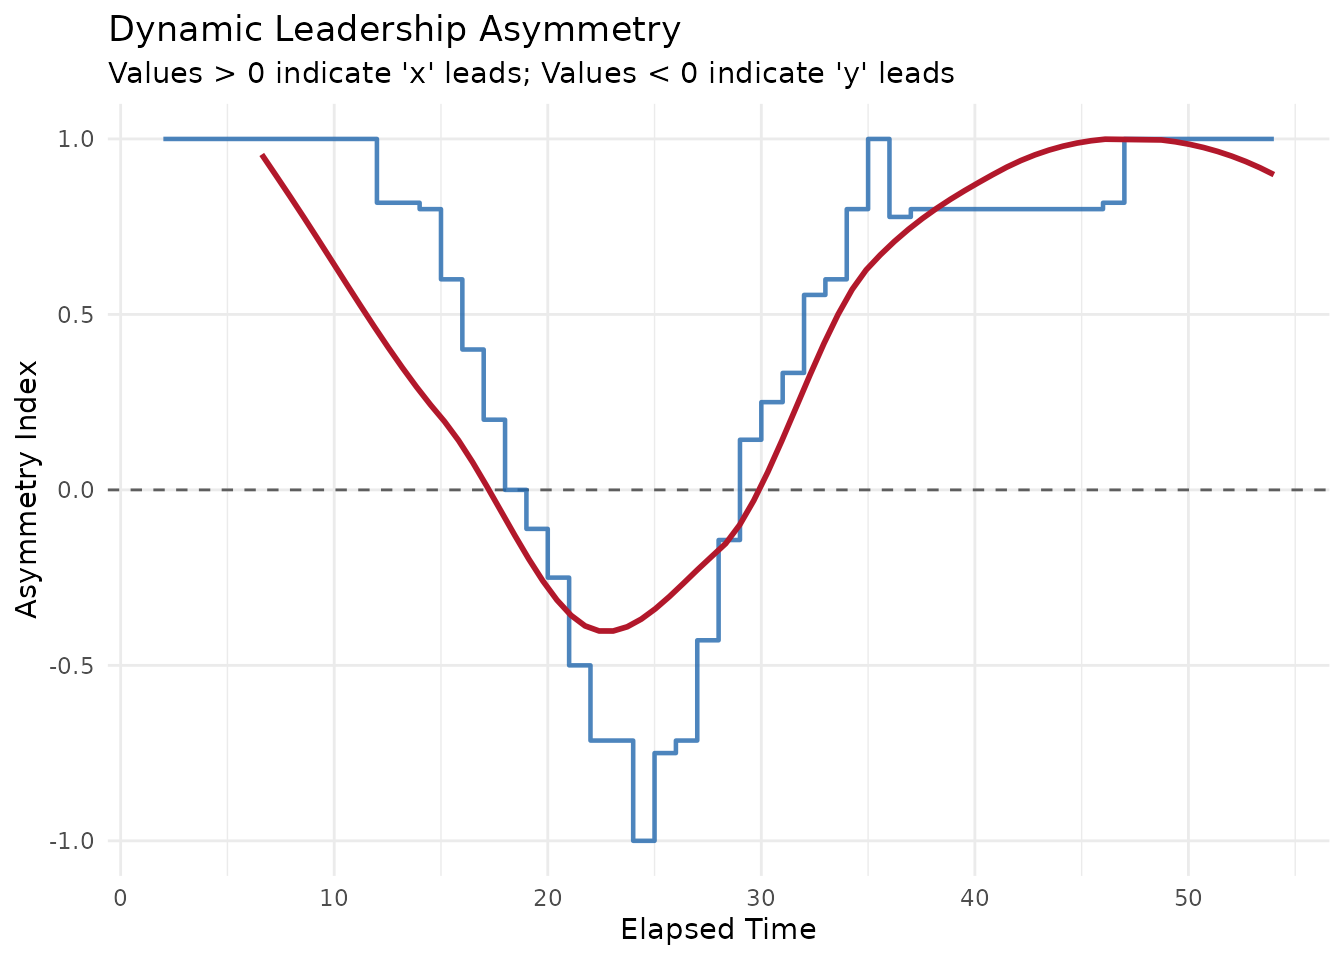
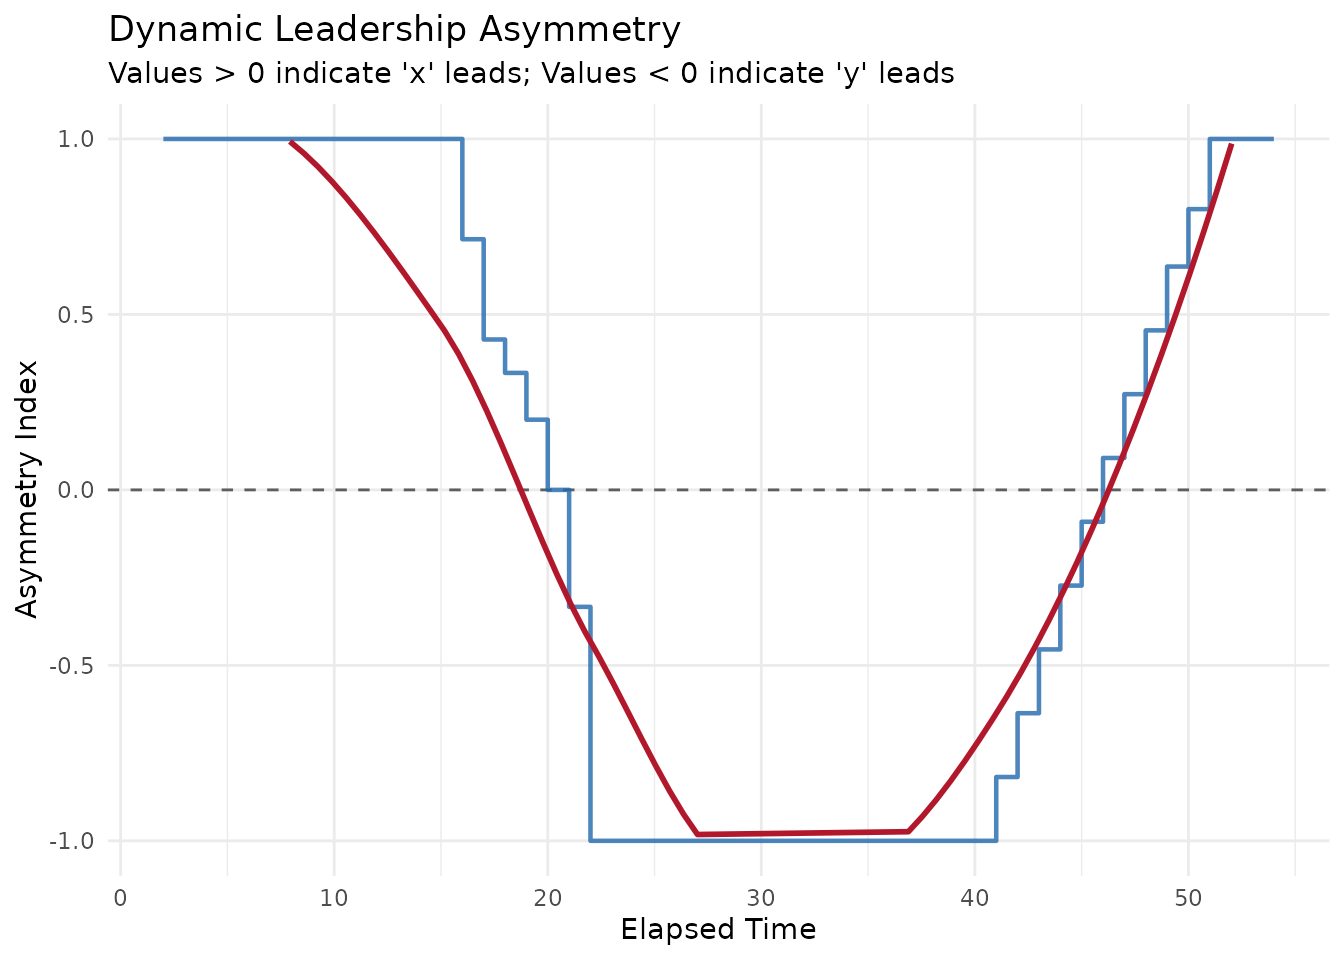
Deploying to gh-pages from @ jmgirard/bsync@0faa2db5527edf8fd0598e038e5dc24733de73dc 🚀

diff --git a/articles/wcc-workflow.html b/articles/wcc-workflow.html
@@ -146,7 +146,7 @@ by 8 frames (0.26 seconds).</li>
 <span></span>
 <span>  <span class="op">}</span> <span class="kw">else</span> <span class="kw">if</span> <span class="op">(</span><span class="va">i</span> <span class="op">&lt;=</span> <span class="fl">1400</span><span class="op">)</span> <span class="op">{</span></span>
 <span>    <span class="co"># Phase 3 (30-46s): Person B leads by 12 frames (0.40 seconds)</span></span>
-<span>    <span class="va">person_A_raw</span><span class="op">[</span><span class="va">i</span><span class="op">]</span> <span class="op">&lt;-</span> <span class="va">shared_base</span><span class="op">[</span><span class="fl">150</span> <span class="op">+</span> <span class="va">i</span> <span class="op">+</span> <span class="fl">12</span><span class="op">]</span></span>
+<span>    <span class="va">person_A_raw</span><span class="op">[</span><span class="va">i</span><span class="op">]</span> <span class="op">&lt;-</span> <span class="va">shared_base</span><span class="op">[</span><span class="fl">150</span> <span class="op">+</span> <span class="va">i</span> <span class="op">-</span> <span class="fl">12</span><span class="op">]</span></span>
 <span>    <span class="va">person_B_raw</span><span class="op">[</span><span class="va">i</span><span class="op">]</span> <span class="op">&lt;-</span> <span class="va">shared_base</span><span class="op">[</span><span class="fl">150</span> <span class="op">+</span> <span class="va">i</span><span class="op">]</span></span>
 <span></span>
 <span>  <span class="op">}</span> <span class="kw">else</span> <span class="op">{</span></span>
@@ -213,12 +213,12 @@ frames (1 second) to allow for overlap and smooth transitions.</p>
 <span><span class="co">#&gt; Total Lags Tested: 91</span></span>
 <span><span class="co">#&gt; Window Size: 90</span></span>
 <span><span class="co">#&gt; Max Lag: 45</span></span>
-<span><span class="co">#&gt; Overall Fisher's Z: 0.4534</span></span>
+<span><span class="co">#&gt; Overall Fisher's Z: 0.4506</span></span>
 <span><span class="co">#&gt; </span></span>
 <span><span class="co">#&gt; ── <span style="font-weight: bold;">Cross-Correlation Value Distribution</span> ──</span></span>
 <span><span class="co">#&gt; </span></span>
 <span><span class="co">#&gt;      0%     25%     50%     75%    100% </span></span>
-<span><span class="co">#&gt; -0.8224 -0.2776  0.0129  0.3826  0.9975</span></span></code></pre></div>
+<span><span class="co">#&gt; -0.8432 -0.2721  0.0168  0.3989  0.9983</span></span></code></pre></div>
 <p>The <code><a href="../reference/wcc.html">wcc()</a></code> function returns a list object of class
 <code>wcc_res</code> containing the results data frame, the overall
 Fisher’s Z score, and the input settings.</p>
@@ -257,8 +257,8 @@ distribution using the circular shift method.</p>
 <span><span class="fu"><a href="https://rdrr.io/r/base/print.html" class="external-link">print</a></span><span class="op">(</span><span class="va">surrogate_results</span><span class="op">)</span></span>
 <span><span class="co">#&gt; <span style="color: #00BBBB;">──</span> <span style="font-weight: bold;">WCC Surrogate Analysis (Pseudo-Synchrony)</span> <span style="color: #00BBBB;">───────────────────────────────────</span></span></span>
 <span><span class="co">#&gt; Permutations: 1000</span></span>
-<span><span class="co">#&gt; Observed Fisher's Z: 0.4534</span></span>
-<span><span class="co">#&gt; Average Null Z: 0.3167</span></span>
+<span><span class="co">#&gt; Observed Fisher's Z: 0.4506</span></span>
+<span><span class="co">#&gt; Average Null Z: 0.3158</span></span>
 <span><span class="co">#&gt; Empirical p-value: &lt; 0.001</span></span>
 <span><span class="co">#&gt; <span style="color: #00BB00;">✔</span> Observed synchrony is significantly greater than chance.</span></span></code></pre></div>
 <p>The output gives us an empirical p-value by calculating the
@@ -278,12 +278,12 @@ participants move independently, the algorithm will naturally find weak,
 meaningless “noise peaks” during that period. To prevent the tracking
 line from wildly jumping around during this lull, we can pass a
 <code>threshold</code> argument.</p>
-<p>Setting <code>threshold = 0.25</code> ensures that any optimum with
-an absolute correlation weaker than r = 0.25 is overwritten with
+<p>Setting <code>threshold = 0.55</code> ensures that any optimum with
+an absolute correlation weaker than r = 0.55 is overwritten with
 <code>NA</code>.</p>
 <div class="sourceCode" id="cb6"><pre class="downlit sourceCode r">
-<code class="sourceCode R"><span><span class="co"># Extract optima using a local search size of 9 and a threshold of 0.25</span></span>
-<span><span class="va">wcc_optima_df</span> <span class="op">&lt;-</span> <span class="fu"><a href="../reference/pick_optima.html">pick_optima</a></span><span class="op">(</span><span class="va">wcc_results</span>, L_size <span class="op">=</span> <span class="fl">9</span>, threshold <span class="op">=</span> <span class="fl">0.25</span><span class="op">)</span></span>
+<code class="sourceCode R"><span><span class="co"># Extract optima using a local search size of 9 and a threshold of 0.55</span></span>
+<span><span class="va">wcc_optima_df</span> <span class="op">&lt;-</span> <span class="fu"><a href="../reference/pick_optima.html">pick_optima</a></span><span class="op">(</span><span class="va">wcc_results</span>, L_size <span class="op">=</span> <span class="fl">9</span>, threshold <span class="op">=</span> <span class="fl">0.55</span><span class="op">)</span></span>
 <span></span>
 <span><span class="co"># View a statistical breakdown of the extracted optima</span></span>
 <span><span class="fu"><a href="https://rdrr.io/r/base/summary.html" class="external-link">summary</a></span><span class="op">(</span><span class="va">wcc_optima_df</span><span class="op">)</span></span>
@@ -293,19 +293,19 @@ an absolute correlation weaker than r = 0.25 is overwritten with
 <span><span class="co">#&gt; ── <span style="font-weight: bold;">Completeness</span> ──</span></span>
 <span><span class="co">#&gt; </span></span>
 <span><span class="co">#&gt; <span style="color: #00BBBB;">•</span> Total time windows: 53</span></span>
-<span><span class="co">#&gt; <span style="color: #00BBBB;">•</span> Valid optima retained: 48 (90.6%)</span></span>
-<span><span class="co">#&gt; <span style="color: #00BBBB;">•</span> Optima dropped (NA): 5 (9.4%)</span></span>
+<span><span class="co">#&gt; <span style="color: #00BBBB;">•</span> Valid optima retained: 44 (83%)</span></span>
+<span><span class="co">#&gt; <span style="color: #00BBBB;">•</span> Optima dropped (NA): 9 (17%)</span></span>
 <span><span class="co">#&gt; </span></span>
 <span><span class="co">#&gt; ── <span style="font-weight: bold;">Lag Directionality (Leadership)</span> ──</span></span>
 <span><span class="co">#&gt; </span></span>
-<span><span class="co">#&gt; <span style="color: #00BBBB;">•</span> Positive Lags (x leads y): 38 (79.2%)</span></span>
-<span><span class="co">#&gt; <span style="color: #00BBBB;">•</span> Negative Lags (y leads x): 9 (18.8%)</span></span>
-<span><span class="co">#&gt; <span style="color: #00BBBB;">•</span> Zero Lags (Simultaneous): 1 (2.1%)</span></span>
+<span><span class="co">#&gt; <span style="color: #00BBBB;">•</span> Positive Lags (x leads y): 24 (54.5%)</span></span>
+<span><span class="co">#&gt; <span style="color: #00BBBB;">•</span> Negative Lags (y leads x): 19 (43.2%)</span></span>
+<span><span class="co">#&gt; <span style="color: #00BBBB;">•</span> Zero Lags (Simultaneous): 1 (2.3%)</span></span>
 <span><span class="co">#&gt; </span></span>
 <span><span class="co">#&gt; ── <span style="font-weight: bold;">Optimum Value Distribution</span> ──</span></span>
 <span><span class="co">#&gt; </span></span>
-<span><span class="co">#&gt;      0%     25%     50%     75%    100% </span></span>
-<span><span class="co">#&gt; -0.3739  0.9433  0.9926  0.9959  0.9975</span></span></code></pre></div>
+<span><span class="co">#&gt;     0%    25%    50%    75%   100% </span></span>
+<span><span class="co">#&gt; 0.5708 0.9877 0.9936 0.9961 0.9983</span></span></code></pre></div>
 <div class="section level4">
 <h4 id="interpreting-the-optima-summary">4.1 Interpreting the Optima Summary<a class="anchor" aria-label="anchor" href="#interpreting-the-optima-summary"></a>
 </h4>
@@ -314,25 +314,26 @@ behavioral dynamics. We can map these results directly to the four
 phases we programmed into our simulation:</p>
 <ul>
 <li>
-<strong>Completeness:</strong> The summary will show that roughly
-16% of the optima were dropped (set to <code>NA</code>). This perfectly
-aligns with Phase 2 of our simulation, which was a 10-second
-uncorrelated lull out of the 60-second total. The threshold successfully
-identified and removed this non-interactive period.</li>
+<strong>Completeness:</strong> The summary shows that 17% (9
+windows) of the optima were dropped and set to <code>NA</code>. This
+aligns perfectly with Phase 2 of our simulation, which was a 10-second
+uncorrelated lull. Raising our threshold successfully identified and
+removed this non-interactive period.</li>
 <li>
 <strong>Lag Directionality (Leadership):</strong> Because we
 supplied <code>person_A</code> as <code>x</code> and
 <code>person_B</code> as <code>y</code>, a positive lag means Person A
-is leading and a negative lag means Person B is leading. The summary
-will show positive lags for roughly 68% of the valid interaction
-(corresponding to the 34 total seconds Person A led in Phases 1 and 4).
-It will show negative lags for the remaining 32% (corresponding to the
-16 seconds Person B led in Phase 3).</li>
+is leading, and a negative lag means Person B is leading. The summary
+shows positive lags for 54.5% of the valid interaction, reflecting the
+times Person A led in Phases 1 and 4. It shows negative lags for 43.2%
+of the interaction, correctly identifying the middle section where
+Person B took over.</li>
 <li>
 <strong>Optimum Value Distribution:</strong> The quantiles provide a
 quick look at the strength of the coordination during the valid
-interactive phases, confirming that the retained peaks represent strong,
-structural synchrony.</li>
+interactive phases. With the 25th percentile sitting at <span class="math inline">\(r = 0.98\)</span>, we have absolute confirmation
+that the retained peaks represent strong, structural synchrony rather
+than random noise.</li>
 </ul>
 </div>
 <div class="section level4">
@@ -372,31 +373,33 @@ tracking path directly onto the WCC heatmap.</p>
 <span>  optima_df <span class="op">=</span> <span class="va">wcc_optima_df</span>,</span>
 <span>  time_step <span class="op">=</span> <span class="fl">1</span> <span class="op">/</span> <span class="va">fs</span>,</span>
 <span>  show_zero_lag <span class="op">=</span> <span class="cn">TRUE</span></span>
-<span><span class="op">)</span></span>
-<span><span class="co">#&gt; Warning: Removed 5 rows containing missing values or values outside the scale range</span></span>
-<span><span class="co">#&gt; (`geom_point()`).</span></span></code></pre></div>
+<span><span class="op">)</span></span></code></pre></div>
 <p><img src="wcc-workflow_files/figure-html/visualization-1.png" class="r-plt" alt="" width="672"></p>
 <p>In the resulting plot, the tracking line perfectly visualizes the
 distinct phases of our simulated interaction:</p>
 <ul>
 <li>
-<strong>0 to 20 seconds:</strong> A stable vertical line sits at a
-positive lag (~0.33s), correctly identifying Person A as the initial
-leader.</li>
+<strong>0 to roughly 18 seconds:</strong> A stable vertical line
+sits at a positive lag (~0.33s), correctly identifying Person A as the
+initial leader.</li>
 <li>
-<strong>20 to 30 seconds:</strong> There is a clean break in the
+<strong>18 to 30 seconds:</strong> There is a clean break in the
 tracking line. Because we applied a threshold, the algorithm
 successfully ignored the weak, random noise peaks during the
 uncorrelated lull, leaving this non-interactive period appropriately
 blank.</li>
 <li>
-<strong>30 to 60 seconds:</strong> The tracking line reappears and
-cleanly shifts to new lags, accurately capturing the transitions in
-leadership dynamics during the final two phases.</li>
+<strong>30 to 45 seconds:</strong> The tracking line reappears on
+the left side of the zero-line at a negative lag (~ -0.40s), perfectly
+capturing Phase 3 where Person B takes the lead.</li>
+<li>
+<strong>46 seconds onward:</strong> The tracking line jumps back to
+the right side of the zero-line as Person A reclaims the lead for the
+final phase of the interaction.</li>
 </ul>
 </div>
 <div class="section level3">
-<h3 id="quantifying-leadership-dynamics-the-pipeline-approach">6. Quantifying Leadership Dynamics (The Pipeline Approach)<a class="anchor" aria-label="anchor" href="#quantifying-leadership-dynamics-the-pipeline-approach"></a>
+<h3 id="quantifying-leadership-dynamics">6. Quantifying Leadership Dynamics<a class="anchor" aria-label="anchor" href="#quantifying-leadership-dynamics"></a>
 </h3>
 <p>Visualizing the optima is helpful, but researchers ultimately need a
 continuous, quantifiable metric of who is driving the interaction. The
@@ -407,20 +410,22 @@ optima into a bounded Leadership Asymmetry Index (LAI) ranging from -1
 structure, you can seamlessly chain the entire analytical process
 together using the native R pipe (<code>|&gt;</code>):</p>
 <div class="sourceCode" id="cb8"><pre class="downlit sourceCode r">
-<code class="sourceCode R"><span><span class="co"># Run the complete pipeline from results to LAI visualization</span></span>
+<code class="sourceCode R"><span><span class="co"># Run the complete pipeline from WCC results to LAI visualization</span></span>
 <span><span class="va">wcc_results</span> <span class="op">|&gt;</span></span>
-<span>  <span class="fu"><a href="../reference/pick_optima.html">pick_optima</a></span><span class="op">(</span>L_size <span class="op">=</span> <span class="fl">9</span>, threshold <span class="op">=</span> <span class="fl">0.25</span><span class="op">)</span> <span class="op">|&gt;</span></span>
+<span>  <span class="fu"><a href="../reference/pick_optima.html">pick_optima</a></span><span class="op">(</span>L_size <span class="op">=</span> <span class="fl">9</span>, threshold <span class="op">=</span> <span class="fl">0.55</span><span class="op">)</span> <span class="op">|&gt;</span></span>
 <span>  <span class="fu"><a href="../reference/leadership_asymmetry.html">leadership_asymmetry</a></span><span class="op">(</span>epoch_size <span class="op">=</span> <span class="fl">10</span>, min_valid <span class="op">=</span> <span class="fl">3</span><span class="op">)</span> <span class="op">|&gt;</span></span>
 <span>  <span class="fu"><a href="https://rdrr.io/r/graphics/plot.default.html" class="external-link">plot</a></span><span class="op">(</span>smooth <span class="op">=</span> <span class="cn">TRUE</span><span class="op">)</span></span>
-<span><span class="co">#&gt; `geom_smooth()` using formula = 'y ~ x'</span></span>
-<span><span class="co">#&gt; Warning: Removed 10 rows containing missing values or values outside the scale range</span></span>
-<span><span class="co">#&gt; (`geom_smooth()`).</span></span></code></pre></div>
+<span><span class="co">#&gt; `geom_smooth()` using formula = 'y ~ x'</span></span></code></pre></div>
 <p><img src="wcc-workflow_files/figure-html/pipeline-lai-1.png" class="r-plt" alt="" width="672"></p>
 <p>By grouping the windows into local epochs (in this case, groups of 10
 windows), the LAI function smooths over momentary frame-by-frame jitter
-to reveal the broader structural periods of dominance. The resulting
-plot makes it immediately obvious when the conversation shifted from
-Person A driving the interaction to Person B taking over.</p>
+to reveal the broader structural periods of dominance.</p>
+<p>The resulting plot tells the entire story of the interaction at a
+glance. The metric starts firmly at <code>1.0</code> (Person A leading),
+smoothly transitions down through zero during the uncorrelated lull,
+hits <code>-1.0</code> (Person B leading) right at the 30-second mark,
+and finally climbs back up to <code>1.0</code> as Person A re-enters the
+conversation.</p>
 </div>
 </div>
   </main><aside class="col-md-3"><nav id="toc" aria-label="Table of contents"><h2>On this page</h2>

diff --git a/articles/wdtw-workflow.html b/articles/wdtw-workflow.html
@@ -259,9 +259,7 @@ together using the native R pipe (<code>|&gt;</code>):</p>
 <span>  <span class="fu"><a href="../reference/pick_optima.html">pick_optima</a></span><span class="op">(</span><span class="op">)</span> <span class="op">|&gt;</span></span>
 <span>  <span class="fu"><a href="../reference/leadership_asymmetry.html">leadership_asymmetry</a></span><span class="op">(</span>epoch_size <span class="op">=</span> <span class="fl">10</span>, min_valid <span class="op">=</span> <span class="fl">3</span><span class="op">)</span> <span class="op">|&gt;</span></span>
 <span>  <span class="fu"><a href="https://rdrr.io/r/graphics/plot.default.html" class="external-link">plot</a></span><span class="op">(</span>smooth <span class="op">=</span> <span class="cn">TRUE</span><span class="op">)</span></span>
-<span><span class="co">#&gt; `geom_smooth()` using formula = 'y ~ x'</span></span>
-<span><span class="co">#&gt; Warning: Removed 38 rows containing missing values or values outside the scale range</span></span>
-<span><span class="co">#&gt; (`geom_smooth()`).</span></span></code></pre></div>
+<span><span class="co">#&gt; `geom_smooth()` using formula = 'y ~ x'</span></span></code></pre></div>
 <p><img src="wdtw-workflow_files/figure-html/pipeline-lai-1.png" class="r-plt" alt="" width="672"></p>
 <p>By grouping the windows into local epochs, the LAI function smooths
 over momentary frame-by-frame jitter to reveal the broader structural

diff --git a/articles/wcc-workflow.md b/articles/wcc-workflow.md
@@ -72,7 +72,7 @@ for (i in 1:n_frames) {
 
   } else if (i <= 1400) {
     # Phase 3 (30-46s): Person B leads by 12 frames (0.40 seconds)
-    person_A_raw[i] <- shared_base[150 + i + 12]
+    person_A_raw[i] <- shared_base[150 + i - 12]
     person_B_raw[i] <- shared_base[150 + i]
 
   } else {
@@ -147,12 +147,12 @@ summary(wcc_results)
 #> Total Lags Tested: 91
 #> Window Size: 90
 #> Max Lag: 45
-#> Overall Fisher's Z: 0.4534
+#> Overall Fisher's Z: 0.4506
 #> 
 #> ── Cross-Correlation Value Distribution ──
 #> 
 #>      0%     25%     50%     75%    100% 
-#> -0.8224 -0.2776  0.0129  0.3826  0.9975
+#> -0.8432 -0.2721  0.0168  0.3989  0.9983
 ```
 
 The [`wcc()`](https://jmgirard.github.io/bsync/reference/wcc.md)
@@ -200,8 +200,8 @@ surrogate_results <- wcc_surrogate(
 print(surrogate_results)
 #> ── WCC Surrogate Analysis (Pseudo-Synchrony) ───────────────────────────────────
 #> Permutations: 1000
-#> Observed Fisher's Z: 0.4534
-#> Average Null Z: 0.3167
+#> Observed Fisher's Z: 0.4506
+#> Average Null Z: 0.3158
 #> Empirical p-value: < 0.001
 #> ✔ Observed synchrony is significantly greater than chance.
 ```
@@ -225,13 +225,13 @@ move independently, the algorithm will naturally find weak, meaningless
 wildly jumping around during this lull, we can pass a `threshold`
 argument.
 
-Setting `threshold = 0.25` ensures that any optimum with an absolute
-correlation weaker than r = 0.25 is overwritten with `NA`.
+Setting `threshold = 0.55` ensures that any optimum with an absolute
+correlation weaker than r = 0.55 is overwritten with `NA`.
 
 ``` r
 
-# Extract optima using a local search size of 9 and a threshold of 0.25
-wcc_optima_df <- pick_optima(wcc_results, L_size = 9, threshold = 0.25)
+# Extract optima using a local search size of 9 and a threshold of 0.55
+wcc_optima_df <- pick_optima(wcc_results, L_size = 9, threshold = 0.55)
 
 # View a statistical breakdown of the extracted optima
 summary(wcc_optima_df)
@@ -241,19 +241,19 @@ summary(wcc_optima_df)
 #> ── Completeness ──
 #> 
 #> • Total time windows: 53
-#> • Valid optima retained: 48 (90.6%)
-#> • Optima dropped (NA): 5 (9.4%)
+#> • Valid optima retained: 44 (83%)
+#> • Optima dropped (NA): 9 (17%)
 #> 
 #> ── Lag Directionality (Leadership) ──
 #> 
-#> • Positive Lags (x leads y): 38 (79.2%)
-#> • Negative Lags (y leads x): 9 (18.8%)
-#> • Zero Lags (Simultaneous): 1 (2.1%)
+#> • Positive Lags (x leads y): 24 (54.5%)
+#> • Negative Lags (y leads x): 19 (43.2%)
+#> • Zero Lags (Simultaneous): 1 (2.3%)
 #> 
 #> ── Optimum Value Distribution ──
 #> 
-#>      0%     25%     50%     75%    100% 
-#> -0.3739  0.9433  0.9926  0.9959  0.9975
+#>     0%    25%    50%    75%   100% 
+#> 0.5708 0.9877 0.9936 0.9961 0.9983
 ```
 
 #### 4.1 Interpreting the Optima Summary
@@ -262,22 +262,23 @@ The [`summary()`](https://rdrr.io/r/base/summary.html) method provides a
 concise breakdown of the behavioral dynamics. We can map these results
 directly to the four phases we programmed into our simulation:
 
-- **Completeness:** The summary will show that roughly 16% of the optima
-  were dropped (set to `NA`). This perfectly aligns with Phase 2 of our
-  simulation, which was a 10-second uncorrelated lull out of the
-  60-second total. The threshold successfully identified and removed
-  this non-interactive period.
+- **Completeness:** The summary shows that 17% (9 windows) of the optima
+  were dropped and set to `NA`. This aligns perfectly with Phase 2 of
+  our simulation, which was a 10-second uncorrelated lull. Raising our
+  threshold successfully identified and removed this non-interactive
+  period.
 - **Lag Directionality (Leadership):** Because we supplied `person_A` as
-  `x` and `person_B` as `y`, a positive lag means Person A is leading
-  and a negative lag means Person B is leading. The summary will show
-  positive lags for roughly 68% of the valid interaction (corresponding
-  to the 34 total seconds Person A led in Phases 1 and 4). It will show
-  negative lags for the remaining 32% (corresponding to the 16 seconds
-  Person B led in Phase 3).
+  `x` and `person_B` as `y`, a positive lag means Person A is leading,
+  and a negative lag means Person B is leading. The summary shows
+  positive lags for 54.5% of the valid interaction, reflecting the times
+  Person A led in Phases 1 and 4. It shows negative lags for 43.2% of
+  the interaction, correctly identifying the middle section where Person
+  B took over.
 - **Optimum Value Distribution:** The quantiles provide a quick look at
-  the strength of the coordination during the valid interactive phases,
-  confirming that the retained peaks represent strong, structural
-  synchrony.
+  the strength of the coordination during the valid interactive phases.
+  With the 25th percentile sitting at \\r = 0.98\\, we have absolute
+  confirmation that the retained peaks represent strong, structural
+  synchrony rather than random noise.
 
 #### 4.2 Tuning the Local Search Window (`L_size`)
 
@@ -315,8 +316,6 @@ plot_optima_overlay(
   time_step = 1 / fs,
   show_zero_lag = TRUE
 )
-#> Warning: Removed 5 rows containing missing values or values outside the scale range
-#> (`geom_point()`).
 ```
 
 ![](wcc-workflow_files/figure-html/visualization-1.png)
@@ -324,17 +323,20 @@ plot_optima_overlay(
 In the resulting plot, the tracking line perfectly visualizes the
 distinct phases of our simulated interaction:
 
-- **0 to 20 seconds:** A stable vertical line sits at a positive lag
-  (~0.33s), correctly identifying Person A as the initial leader.
-- **20 to 30 seconds:** There is a clean break in the tracking line.
+- **0 to roughly 18 seconds:** A stable vertical line sits at a positive
+  lag (~0.33s), correctly identifying Person A as the initial leader.
+- **18 to 30 seconds:** There is a clean break in the tracking line.
   Because we applied a threshold, the algorithm successfully ignored the
   weak, random noise peaks during the uncorrelated lull, leaving this
   non-interactive period appropriately blank.
-- **30 to 60 seconds:** The tracking line reappears and cleanly shifts
-  to new lags, accurately capturing the transitions in leadership
-  dynamics during the final two phases.
+- **30 to 45 seconds:** The tracking line reappears on the left side of
+  the zero-line at a negative lag (~ -0.40s), perfectly capturing Phase
+  3 where Person B takes the lead.
+- **46 seconds onward:** The tracking line jumps back to the right side
+  of the zero-line as Person A reclaims the lead for the final phase of
+  the interaction.
 
-### 6. Quantifying Leadership Dynamics (The Pipeline Approach)
+### 6. Quantifying Leadership Dynamics
 
 Visualizing the optima is helpful, but researchers ultimately need a
 continuous, quantifiable metric of who is driving the interaction. The
@@ -349,20 +351,22 @@ R pipe (`|>`):
 
 ``` r
 
-# Run the complete pipeline from results to LAI visualization
+# Run the complete pipeline from WCC results to LAI visualization
 wcc_results |>
-  pick_optima(L_size = 9, threshold = 0.25) |>
+  pick_optima(L_size = 9, threshold = 0.55) |>
   leadership_asymmetry(epoch_size = 10, min_valid = 3) |>
   plot(smooth = TRUE)
 #> `geom_smooth()` using formula = 'y ~ x'
-#> Warning: Removed 10 rows containing missing values or values outside the scale range
-#> (`geom_smooth()`).
 ```
 
 ![](wcc-workflow_files/figure-html/pipeline-lai-1.png)
 
 By grouping the windows into local epochs (in this case, groups of 10
 windows), the LAI function smooths over momentary frame-by-frame jitter
-to reveal the broader structural periods of dominance. The resulting
-plot makes it immediately obvious when the conversation shifted from
-Person A driving the interaction to Person B taking over.
+to reveal the broader structural periods of dominance.
+
+The resulting plot tells the entire story of the interaction at a
+glance. The metric starts firmly at `1.0` (Person A leading), smoothly
+transitions down through zero during the uncorrelated lull, hits `-1.0`
+(Person B leading) right at the 30-second mark, and finally climbs back
+up to `1.0` as Person A re-enters the conversation.

diff --git a/articles/wdtw-workflow.md b/articles/wdtw-workflow.md
@@ -205,8 +205,6 @@ wdtw_results |>
   leadership_asymmetry(epoch_size = 10, min_valid = 3) |>
   plot(smooth = TRUE)
 #> `geom_smooth()` using formula = 'y ~ x'
-#> Warning: Removed 38 rows containing missing values or values outside the scale range
-#> (`geom_smooth()`).
 ```
 
 ![](wdtw-workflow_files/figure-html/pipeline-lai-1.png)